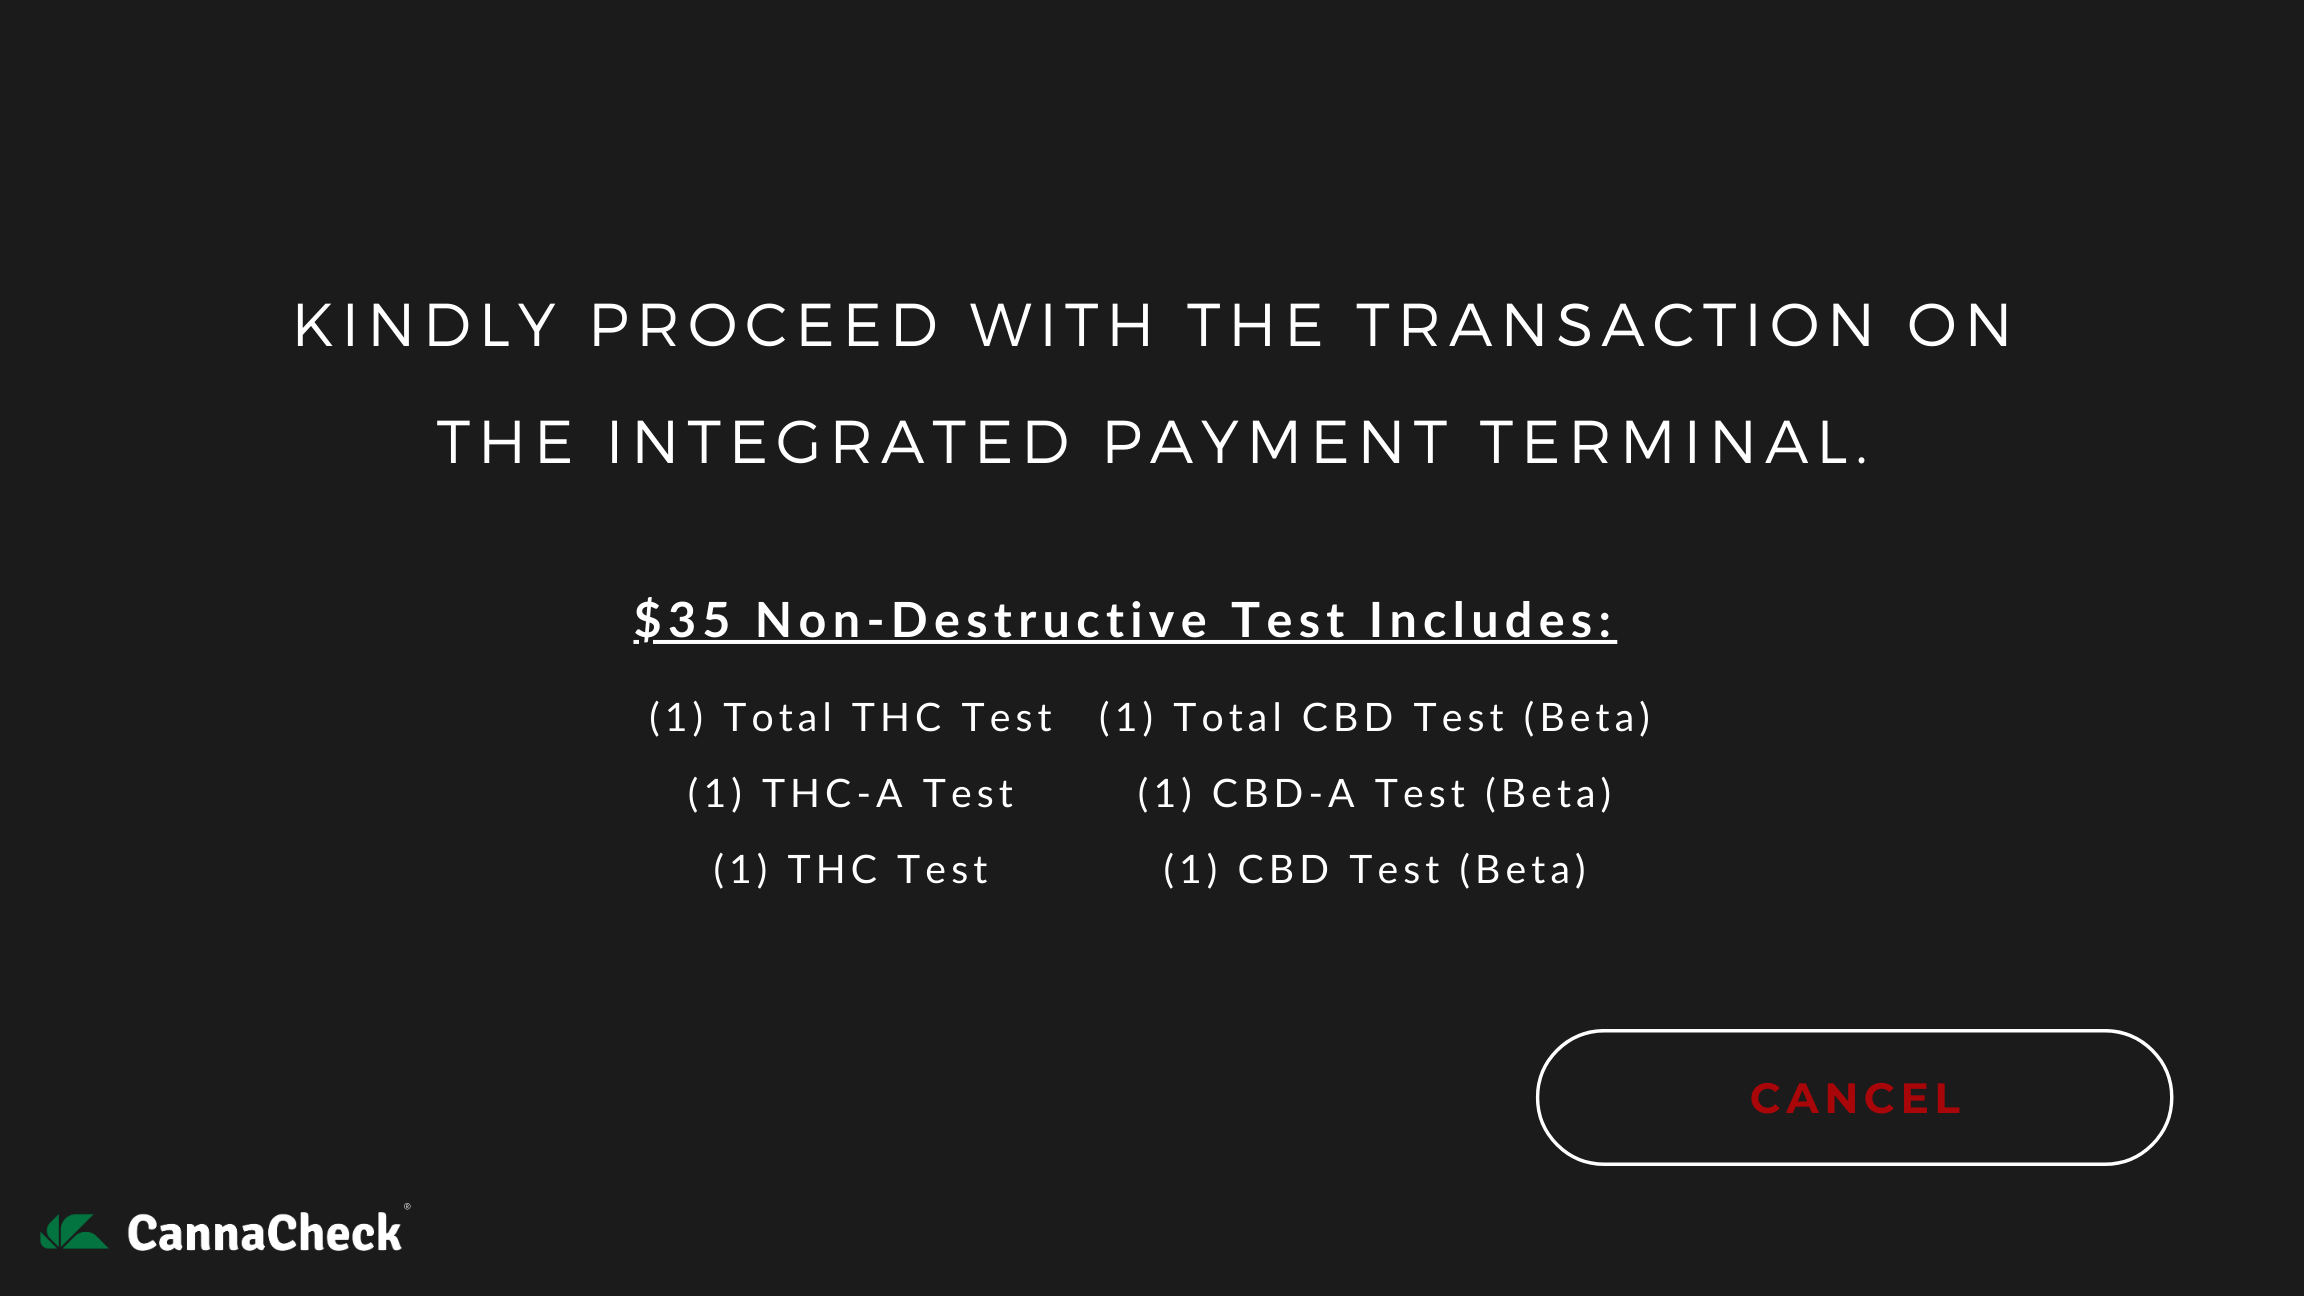
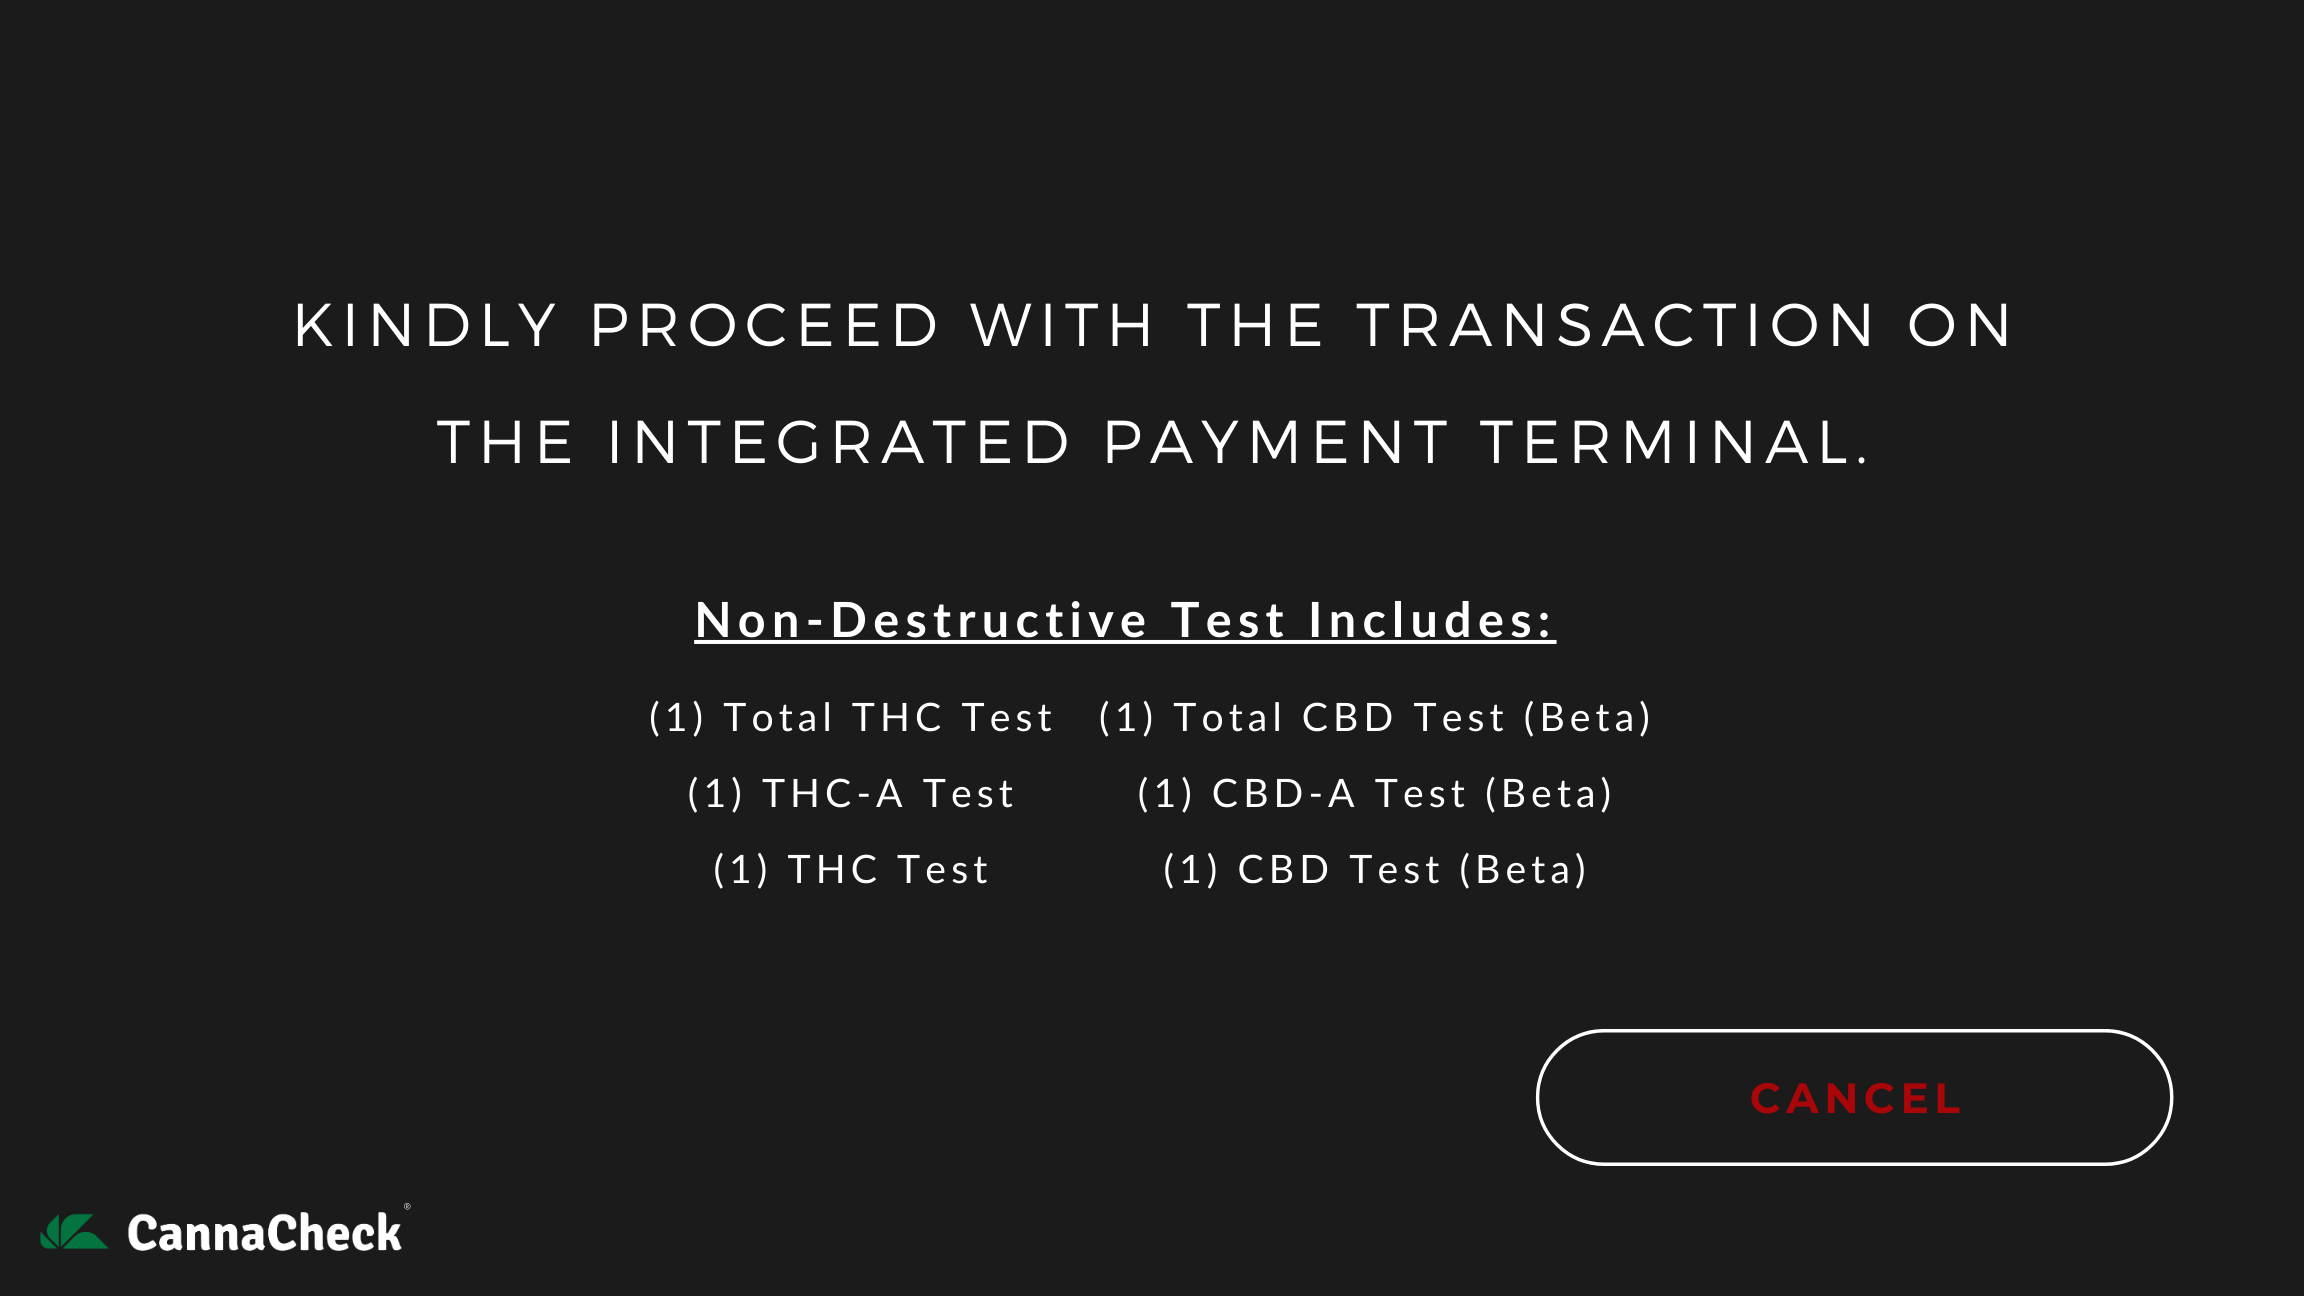
add new page images, add dynamic price update method

Changed region(s): [[0.2812, 0.463, 0.6875, 0.4938]]

diff --git a/lib_gui/gui.py b/lib_gui/gui.py
@@ -5,8 +5,8 @@
 
 __author__ = "Justin Furuness, Nicholas Lanotte, Michael Mahoney"
 __credits__ = ["Justin Furuness", "Nicholas Lanotte", "Michael Mahoney"]
-__maintainer__ = "Justin Furuness"
-__email__ = "jfuruness@gmail.com"
+__maintainer__ = "Michael Mahoney"
+__email__ = "mike@cannacheckkiosk.com"
 
 
 import os
@@ -16,6 +16,7 @@ from PyQt5 import QtWidgets, uic
 from PyQt5.QtWidgets import QApplication
 from PyQt5.QtCore import Qt
 from PyQt5.QtWidgets import QApplication, QWidget
+from PyQt5.QtGui import QFont
 
 from .page import Page
 
@@ -76,8 +77,11 @@ class GUI(QtWidgets.QMainWindow):
         self.connect_shortcuts()
         if not self.fake_payment_terminal and not self.fake_backend:
             self.showFullScreen()
+        # Updates price label from price common_app_funcs
+        self.update_price_label()
         # Move to booting page
         self.switch_to_boot_page()
+
     def _switch_to_page(self, page: Page):
         """Switches to a page"""
 
@@ -117,7 +121,27 @@ class GUI(QtWidgets.QMainWindow):
         import os
         os.system('systemctl poweroff')
 
-        # Boot page methods
+    def update_price_label(self):
+        # self.costOfTest is in cents and needs to be converted to dollars
+        price_in_dollars = self.costOfTest / 100.0
+
+        # Setting the text of the label
+        self.ui.start_price_label.setText(f"${price_in_dollars:.2f}")
+
+        # Setting font for label
+        font = QFont("Arial", 26)
+        self.ui.start_price_label.setFont(font)
+
+        # Setting the stylesheet for the label
+        self.ui.start_price_label.setStyleSheet("""
+            QLabel {
+                background-color: #1B1B1B;  # Dark background
+                color: white;               # White text
+                padding: 5px;               # Adds padding around the text (not sure if needed)
+            }
+        """)
+
+    # Boot page methods
     from .pages.boot_page import switch_to_boot_page
 
     # Start page methods
